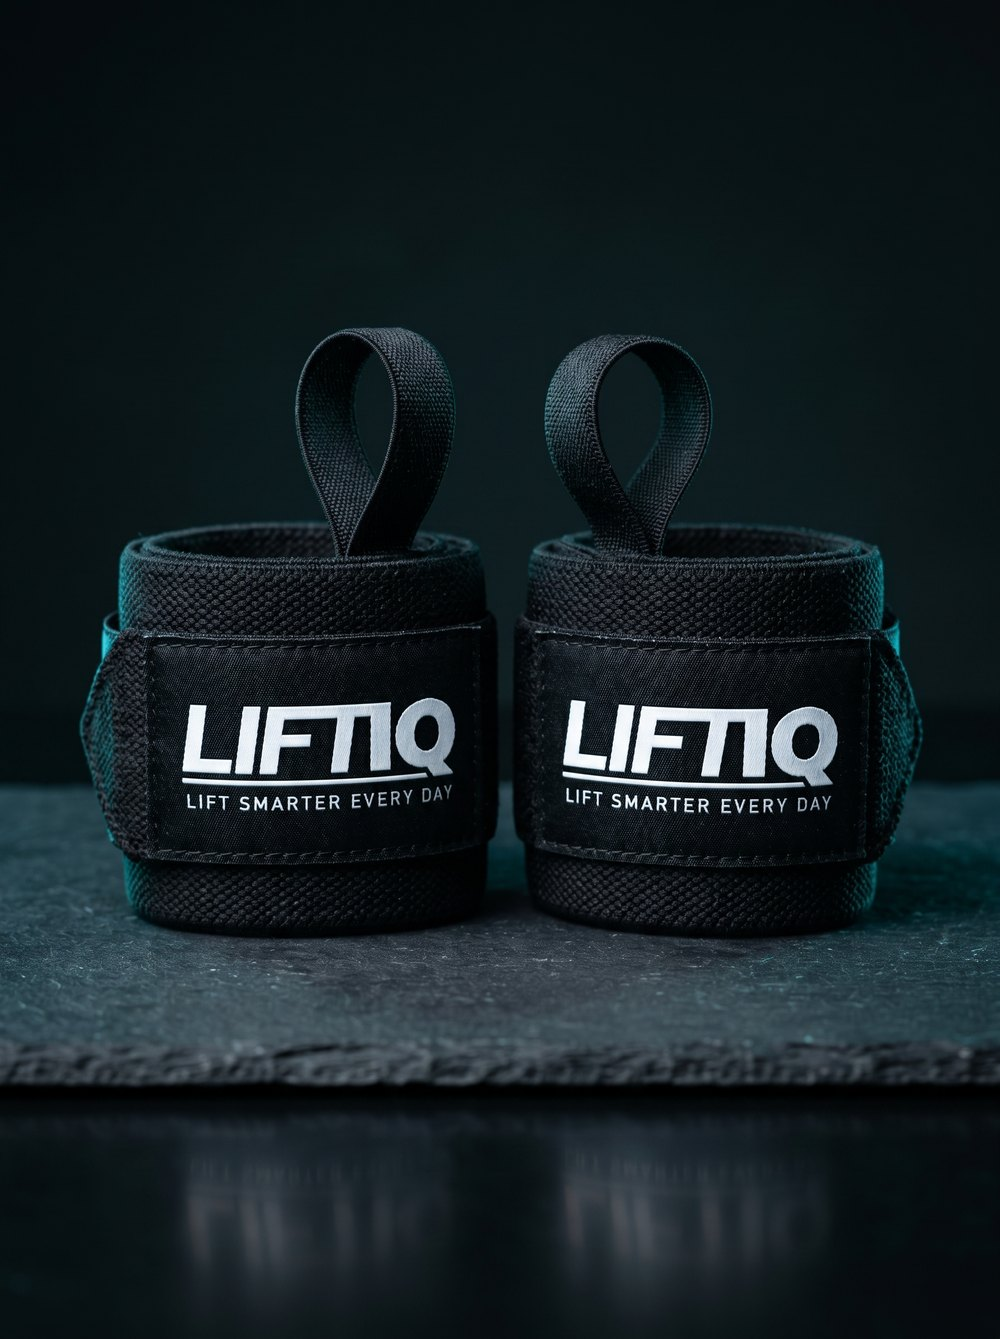
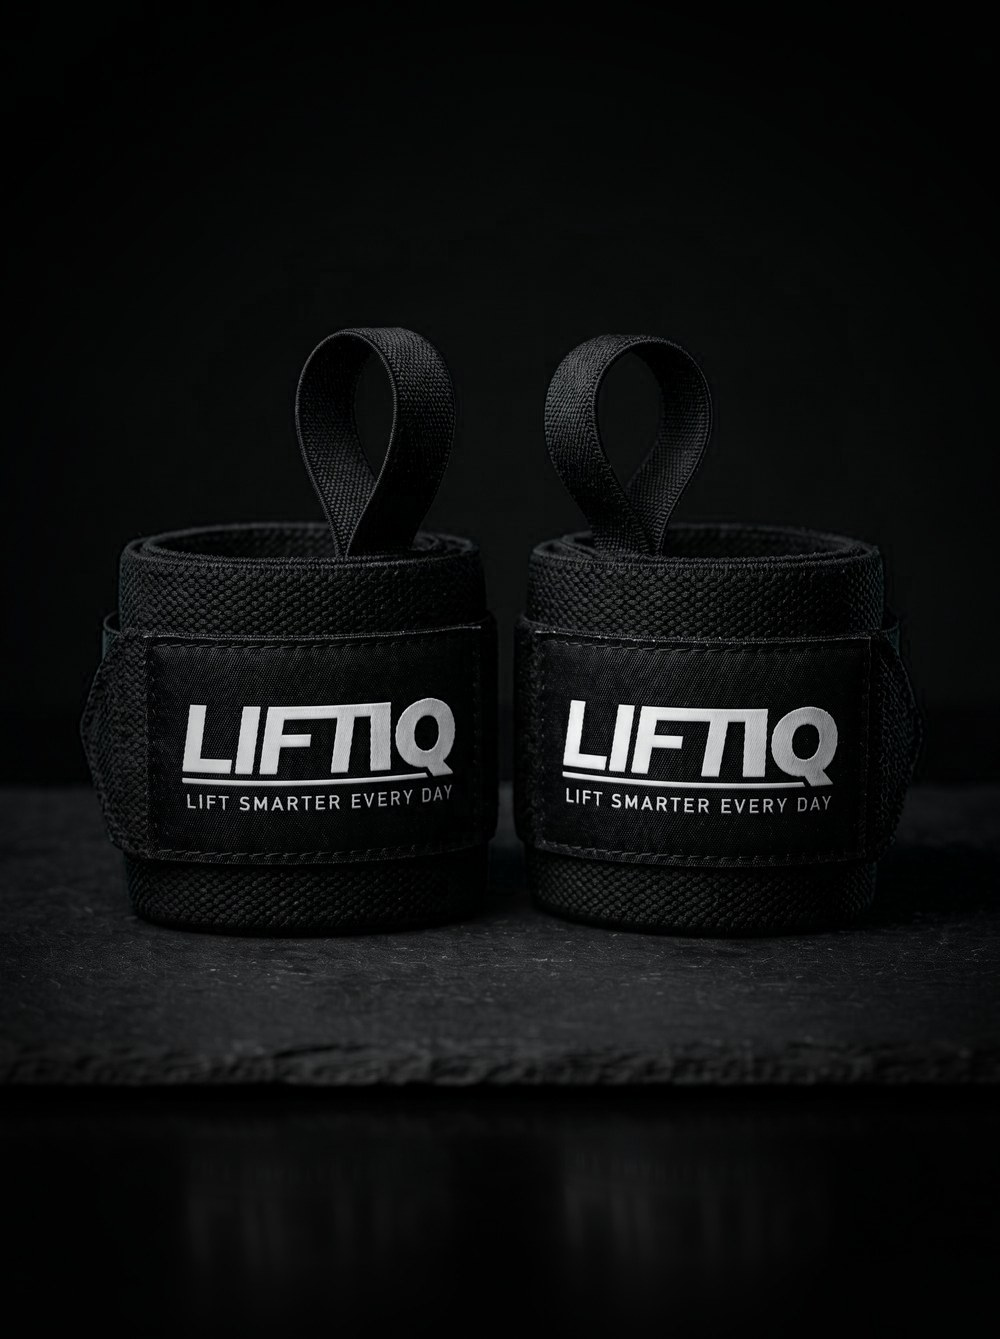
Checkout upsell/cross-sell + normalize product images
- bestellen.php: product catalog as single source of truth (prijs/gewicht/img/benefit/upsellProductIds); data-driven product list; 'Bestel dit erbij' upsell section (dedupe, max 3, exclude in-cart, mobile-friendly); gear now orderable (placeholder prices); shaker removed
- gear images (straps/sleeves/wraps): removed cyan outline/glow + vignette to unify background style
- pre-workout images (blue/red/gold): normalized tub scale + vertical alignment for consistent product cards

diff --git a/bestellen.php b/bestellen.php
@@ -1,6 +1,44 @@
 <?php
 require_once __DIR__ . '/config.php';
 require_once __DIR__ . '/_lib.php';
+
+// Productcatalogus — enige bron van waarheid: prijs, gewicht, afbeelding,
+// benefit-regel en upsell-relaties (upsellProductIds). Wordt gebruikt voor
+// serverside validatie/prijzen én om de productlijst + upsell te renderen.
+// LET OP: gear-prijzen zijn voorlopige placeholders — bevestig vóór go-live.
+$producten = [
+    'straps' => [
+        'naam' => 'D-Ring Lifting Straps', 'prijs' => 19.95, 'gewicht' => 0.150,
+        'img' => 'images/straps.jpg', 'benefit' => 'Maximale grip bij deadlifts & rows',
+        'upsell' => ['wraps', 'sleeves', 'preworkout_blue'],
+    ],
+    'wraps' => [
+        'naam' => 'Wrist Wraps', 'prijs' => 14.95, 'gewicht' => 0.120,
+        'img' => 'images/wraps.jpg', 'benefit' => 'Stabiele polssteun bij zware pushes',
+        'upsell' => ['straps', 'sleeves', 'preworkout_blue'],
+    ],
+    'sleeves' => [
+        'naam' => 'Knee Sleeves', 'prijs' => 39.95, 'gewicht' => 0.400,
+        'img' => 'images/sleeves.jpg', 'benefit' => 'Stabiliteit & warmte bij squats',
+        'upsell' => ['straps', 'wraps', 'preworkout_blue'],
+    ],
+    'preworkout_blue' => [
+        'naam' => 'Pre Lift 1 — Blueberry', 'prijs' => 34.95, 'gewicht' => 0.500,
+        'img' => 'images/preworkout-blue.jpg', 'benefit' => 'Focus, energie & pump',
+        'upsell' => ['sleeves', 'wraps', 'straps'],
+    ],
+    'preworkout_red' => [
+        'naam' => 'Pre Lift 1 — Strawberry Kiwi', 'prijs' => 34.95, 'gewicht' => 0.500,
+        'img' => 'images/preworkout-red.jpg', 'benefit' => 'Explosieve energie & focus',
+        'upsell' => ['sleeves', 'wraps', 'straps'],
+    ],
+    'preworkout_gold' => [
+        'naam' => 'Pre Lift 1 — Tropical (cafeïnevrij)', 'prijs' => 34.95, 'gewicht' => 0.500,
+        'img' => 'images/preworkout-gold.jpg', 'benefit' => 'Focus & pump zonder cafeïne',
+        'upsell' => ['sleeves', 'wraps', 'straps'],
+    ],
+];
+
 $errors = [];
 if ($_SERVER['REQUEST_METHOD'] === 'POST') {
     $naam     = trim($_POST['naam'] ?? '');
@@ -19,13 +57,6 @@ if ($_SERVER['REQUEST_METHOD'] === 'POST') {
         if (empty($postcode)) $errors[] = 'Vul je postcode in.';
         if (empty($stad))     $errors[] = 'Vul je woonplaats in.';
     }
-
-    $producten = [
-        'preworkout_blue' => ['naam' => 'Pre-Workout Blueberry',              'prijs' => 34.95, 'gewicht' => 0.500],
-        'preworkout_red'  => ['naam' => 'Pre-Workout Strawberry Kiwi',        'prijs' => 34.95, 'gewicht' => 0.500],
-        'preworkout_gold' => ['naam' => 'Pre-Workout Tropical (cafeïnevrij)', 'prijs' => 34.95, 'gewicht' => 0.500],
-        'shaker'          => ['naam' => 'Shakebeker LIFTIQ',                  'prijs' => 12.95, 'gewicht' => 0.200],
-    ];
 
     $bestelling = $_POST['bestelling'] ?? [];
     $totaal  = 0;
@@ -169,6 +200,19 @@ if ($_SERVER['REQUEST_METHOD'] === 'POST') {
   .levering-opties { flex-direction: column; }
   .steps { display: none; }
 }
+
+/* Upsell / cross-sell — "Bestel dit erbij" */
+.upsell-grid { display: grid; grid-template-columns: repeat(auto-fill, minmax(190px, 1fr)); gap: 1rem; }
+.upsell-card { background: var(--dark-3); border: 1px solid var(--border); padding: 1rem; display: flex; flex-direction: column; gap: 0.55rem; transition: border-color var(--transition); }
+.upsell-card:hover { border-color: var(--blue); }
+.upsell-card img { width: 100%; aspect-ratio: 1 / 1; object-fit: cover; background: var(--dark); display: block; }
+.upsell-name { font-size: 12px; font-weight: 700; letter-spacing: 0.05em; text-transform: uppercase; color: var(--white); }
+.upsell-benefit { font-size: 11px; color: var(--text-muted); line-height: 1.4; flex: 1; }
+.upsell-foot { display: flex; align-items: center; justify-content: space-between; gap: 0.5rem; }
+.upsell-price { font-family: Impact, sans-serif; font-size: 16px; color: var(--blue); }
+.upsell-add { background: var(--blue); color: var(--dark); border: none; font-size: 10px; font-weight: 700; letter-spacing: 0.1em; text-transform: uppercase; padding: 8px 12px; cursor: pointer; transition: background var(--transition); white-space: nowrap; }
+.upsell-add:hover { background: var(--blue-dark); color: #fff; }
+@media (max-width: 520px) { .upsell-grid { grid-template-columns: 1fr 1fr; } }
 </style>
 </head>
 <body>
@@ -221,51 +265,26 @@ if ($_SERVER['REQUEST_METHOD'] === 'POST') {
     <div class="form-section">
       <div class="form-section-title">1 — Kies je producten</div>
       <div class="product-lijst">
+        <?php foreach ($producten as $pid => $p): ?>
         <div class="product-item">
           <div class="product-item-info">
-            <div class="product-item-name">Pre-Workout Blueberry</div>
-            <div class="product-item-price">€34,95</div>
+            <div class="product-item-name"><?= htmlspecialchars($p['naam']) ?></div>
+            <div class="product-item-price">&euro;<?= number_format($p['prijs'], 2, ',', '.') ?></div>
           </div>
           <div class="product-item-qty">
-            <select name="bestelling[preworkout_blue]" class="qty-select" data-price="34.95">
+            <select name="bestelling[<?= $pid ?>]" class="qty-select" data-id="<?= $pid ?>" data-price="<?= number_format($p['prijs'], 2, '.', '') ?>">
               <?php for($i=0;$i<=5;$i++) echo "<option value='$i'" . (($i==0)?'selected':'') . ">$i</option>"; ?>
             </select>
           </div>
         </div>
-        <div class="product-item">
-          <div class="product-item-info">
-            <div class="product-item-name">Pre-Workout Strawberry Kiwi</div>
-            <div class="product-item-price">€34,95</div>
-          </div>
-          <div class="product-item-qty">
-            <select name="bestelling[preworkout_red]" class="qty-select" data-price="34.95">
-              <?php for($i=0;$i<=5;$i++) echo "<option value='$i'" . (($i==0)?'selected':'') . ">$i</option>"; ?>
-            </select>
-          </div>
-        </div>
-        <div class="product-item">
-          <div class="product-item-info">
-            <div class="product-item-name">Pre-Workout Tropical (cafeïnevrij)</div>
-            <div class="product-item-price">€34,95 <span style="font-size:10px;color:var(--text-muted)">cafeïnevrij</span></div>
-          </div>
-          <div class="product-item-qty">
-            <select name="bestelling[preworkout_gold]" class="qty-select" data-price="34.95">
-              <?php for($i=0;$i<=5;$i++) echo "<option value='$i'" . (($i==0)?'selected':'') . ">$i</option>"; ?>
-            </select>
-          </div>
-        </div>
-        <div class="product-item">
-          <div class="product-item-info">
-            <div class="product-item-name">Shakebeker LIFTIQ</div>
-            <div class="product-item-price">€12,95</div>
-          </div>
-          <div class="product-item-qty">
-            <select name="bestelling[shaker]" class="qty-select" data-price="12.95">
-              <?php for($i=0;$i<=5;$i++) echo "<option value='$i'" . (($i==0)?'selected':'') . ">$i</option>"; ?>
-            </select>
-          </div>
-        </div>
+        <?php endforeach; ?>
       </div>
+    </div>
+
+    <!-- BESTEL DIT ERBIJ (upsell / cross-sell) -->
+    <div class="form-section" id="upsell-section" style="display:none;">
+      <div class="form-section-title">Bestel dit erbij</div>
+      <div class="upsell-grid" id="upsell-grid"></div>
     </div>
 
     <!-- STAP 2: LEVERING -->
@@ -403,7 +422,58 @@ function updateTotaal() {
 
   const steps = [document.getElementById('step-1'), document.getElementById('step-2'), document.getElementById('step-3'), document.getElementById('step-4')];
   steps.forEach((s, i) => { s.classList.remove('active','done'); if (i === 0) { if (items.length) { s.classList.add('done'); steps[1]?.classList.add('active'); } else s.classList.add('active'); } });
+
+  renderUpsell();
 }
+
+// --- Upsell / cross-sell ---
+// Productdata uit de PHP-catalogus (enige bron van waarheid).
+const PRODUCTS = <?= json_encode($producten, JSON_UNESCAPED_UNICODE) ?>;
+
+function renderUpsell() {
+  const section = document.getElementById('upsell-section');
+  const grid = document.getElementById('upsell-grid');
+  if (!section || !grid) return;
+
+  // Wat zit er in de winkelwagen?
+  const inCart = new Set();
+  document.querySelectorAll('.qty-select').forEach(s => { if (parseInt(s.value) > 0) inCart.add(s.dataset.id); });
+
+  // Verzamel upsell-suggesties: per product in de wagen, sluit reeds-in-wagen uit, dedupliceer.
+  const seen = new Set();
+  const suggest = [];
+  inCart.forEach(id => {
+    const p = PRODUCTS[id];
+    if (!p || !p.upsell) return;
+    p.upsell.forEach(uid => {
+      if (!inCart.has(uid) && !seen.has(uid) && PRODUCTS[uid]) { seen.add(uid); suggest.push(uid); }
+    });
+  });
+
+  const top = suggest.slice(0, 3); // maximaal 3 relevante suggesties
+  if (inCart.size === 0 || top.length === 0) { section.style.display = 'none'; grid.innerHTML = ''; return; }
+
+  grid.innerHTML = top.map(id => {
+    const p = PRODUCTS[id];
+    const price = '€' + Number(p.prijs).toFixed(2).replace('.', ',');
+    return '<div class="upsell-card">'
+      + '<img src="' + p.img + '" alt="' + p.naam + '" loading="lazy">'
+      + '<div class="upsell-name">' + p.naam + '</div>'
+      + '<div class="upsell-benefit">' + p.benefit + '</div>'
+      + '<div class="upsell-foot"><span class="upsell-price">' + price + '</span>'
+      + '<button type="button" class="upsell-add" data-add="' + id + '">Toevoegen</button></div>'
+      + '</div>';
+  }).join('');
+  section.style.display = '';
+}
+
+// "Toevoegen" → zet de hoeveelheid van dat product op 1 en werk totalen + upsell bij.
+document.getElementById('upsell-grid').addEventListener('click', e => {
+  const btn = e.target.closest('.upsell-add');
+  if (!btn) return;
+  const sel = document.querySelector('.qty-select[data-id="' + btn.dataset.add + '"]');
+  if (sel) { if (parseInt(sel.value) === 0) sel.value = '1'; updateTotaal(); }
+});
 
 document.querySelectorAll('.qty-select').forEach(s => s.addEventListener('change', updateTotaal));
 document.querySelectorAll('input[name="levering"]').forEach(r => r.addEventListener('change', updateTotaal));
